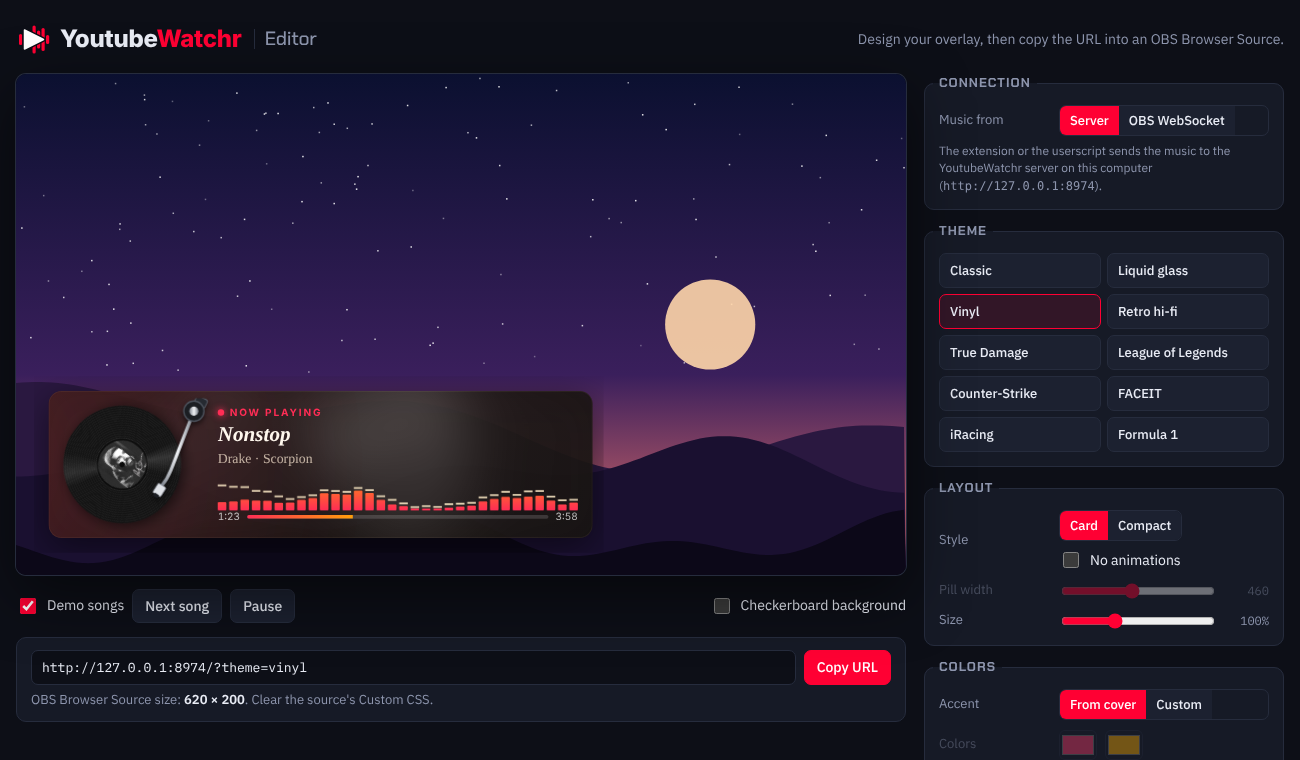
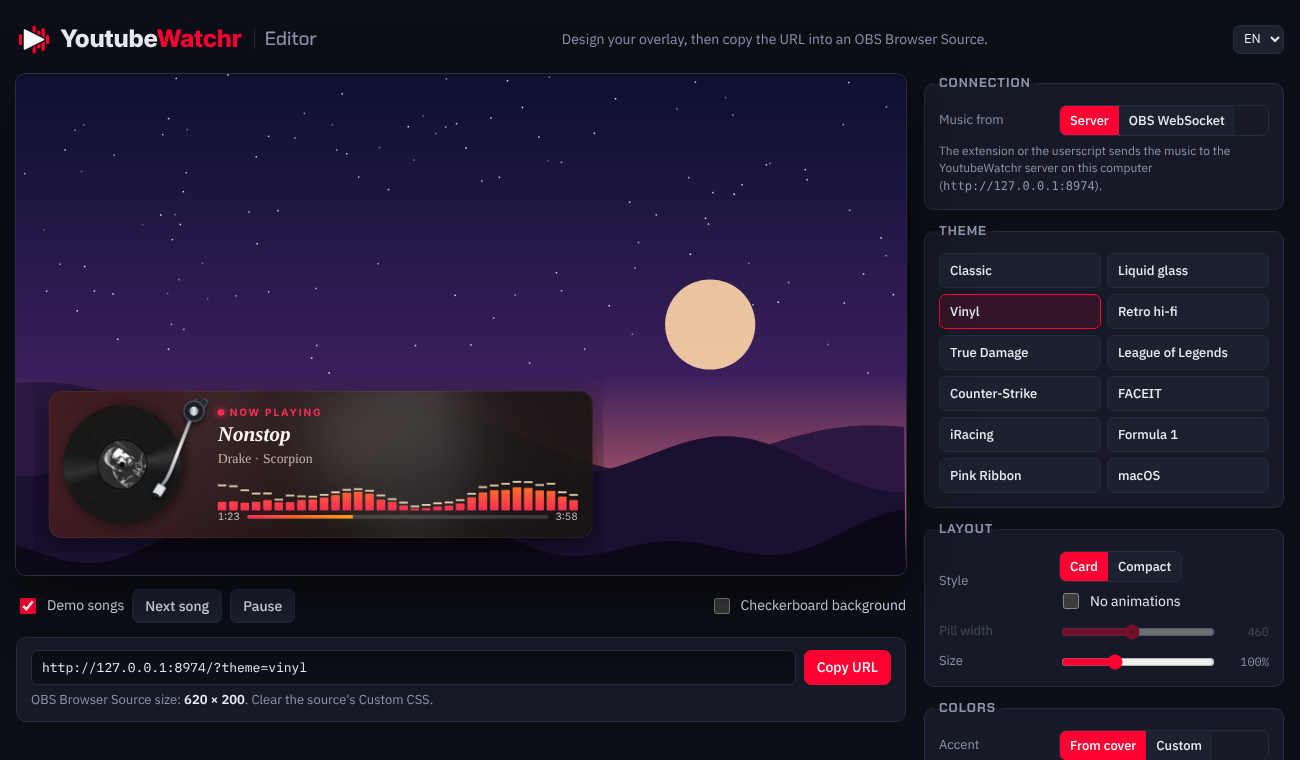
Add macOS theme
Dark macOS window with the three window buttons in the title bar and the
label as window title, system font, equalizer in the cover colors. The
compact version is a small window with a slim title bar above the line.
README, theme GIF and editor screenshot updated.

diff --git a/overlay.html b/overlay.html
@@ -547,6 +547,51 @@
   body.no-card.pinkribbon #title { color: #fff; }
   body.no-card.pinkribbon #artist, body.no-card.pinkribbon #progress, body.no-card.pinkribbon #label { color: #ffd1e2; }
 
+  /* theme=macos: a dark macOS window. Title bar with the three window buttons and
+     the label as window title, system font (SF on a Mac, Segoe UI on Windows),
+     rounded bars in the cover colors, white progress like the Music app. */
+  body.macos {
+    font-family: -apple-system, BlinkMacSystemFont, "SF Pro Text", "Segoe UI Variable Text", "Segoe UI", system-ui, sans-serif;
+    --frost: 0; --cap: rgba(255,255,255,0); --bar-round: 99; --bar-glow: 0;
+    --lights: radial-gradient(circle 6px at 20px 14px, #ff5f57 5.4px, rgba(0,0,0,.18) 5.6px, transparent 6px),
+              radial-gradient(circle 6px at 40px 14px, #febc2e 5.4px, rgba(0,0,0,.18) 5.6px, transparent 6px),
+              radial-gradient(circle 6px at 60px 14px, #28c840 5.4px, rgba(0,0,0,.18) 5.6px, transparent 6px);
+  }
+  body.macos #card {
+    padding: 40px 18px 14px 14px; border-radius: 12px; background: rgba(32,32,34,.96);
+    box-shadow: 0 18px 48px rgba(0,0,0,.5), 0 0 0 .5px rgba(0,0,0,.9), inset 0 0 0 1px rgba(255,255,255,.12);
+  }
+  body.macos #card::before {
+    content: ""; position: absolute; left: 0; right: 0; top: 0; height: 28px; pointer-events: none;
+    background: var(--lights), linear-gradient(#3a3a3c, #323234); box-shadow: inset 0 -1px 0 rgba(0,0,0,.6);
+  }
+  body.macos #glow { display: none; }
+  body.macos #info { position: static; } /* lets the label sit in the title bar */
+  body.macos #label {
+    position: absolute; left: 80px; right: 80px; top: 0; height: 28px; justify-content: center;
+    font-size: 13px; font-weight: 600; letter-spacing: 0; text-transform: none; color: rgba(255,255,255,.62);
+  }
+  body.macos #label::before { display: none; }
+  body.macos #art-wrap { width: 120px; height: 120px; border-radius: 8px; }
+  body.macos #title { font-size: 20px; font-weight: 650; letter-spacing: -.01em; }
+  body.macos #artist { font-size: 15px; font-weight: 500; }
+  body.macos #artist, body.macos #progress { color: rgba(255,255,255,.6); }
+  body.macos #bar { height: 4px; border-radius: 2px; background: rgba(255,255,255,.16); }
+  body.macos #fill { border-radius: 2px; background: rgba(255,255,255,.85); }
+  /* compact: a small window, slim title bar with smaller buttons above the line */
+  body.compact.macos #card { height: 64px; padding: 18px 20px 6px 10px; border-radius: 12px; }
+  body.compact.macos #card::before {
+    height: 16px; border-radius: 0;
+    background: radial-gradient(circle 4px at 13px 8px, #ff5f57 3.5px, transparent 4px),
+                radial-gradient(circle 4px at 26px 8px, #febc2e 3.5px, transparent 4px),
+                radial-gradient(circle 4px at 39px 8px, #28c840 3.5px, transparent 4px), linear-gradient(#3a3a3c, #323234);
+  }
+  body.compact.macos #art-wrap { width: 40px; height: 40px; border-radius: 50%; }
+  body.compact.macos:not(.no-progress) #art-wrap { background: conic-gradient(#fff calc(var(--p, 0) * 1%), rgba(255,255,255,.18) 0); }
+  /* card=0: no title bar, so the label goes back above the title */
+  body.no-card.macos:not(.compact) #card { padding-top: 16px; }
+  body.no-card.macos #label { position: static; height: auto; justify-content: flex-start; }
+
   /* compact versions keep the hard edges */
   body.compact.lol #card, body.compact.cs #card { border-radius: 0; }
   body.compact.cs #label { display: none; }
@@ -622,7 +667,7 @@
 const SAVED = typeof window.YTW_SAVED === 'string' && !location.search;
 const q = new URLSearchParams(SAVED ? window.YTW_SAVED : location.search);
 const opt = {
-  theme: q.get('theme') || 'classic', // classic | glass | vinyl | retro | truedamage | lol | cs | faceit | iracing | f1 | pinkribbon ("minimal" = classic + compact)
+  theme: q.get('theme') || 'classic', // classic | glass | vinyl | retro | truedamage | lol | cs | faceit | iracing | f1 | pinkribbon | macos ("minimal" = classic + compact)
   compact: q.get('compact') === '1' || q.get('theme') === 'minimal',
   bars: +q.get('bars') || (q.get('compact') === '1' || q.get('theme') === 'minimal' ? 7 : q.get('theme') === 'faceit' ? 12 : 32),
   accent: q.get('accent'),            // fixed hex color; otherwise taken from the cover
@@ -653,7 +698,7 @@ const opt = {
 };
 if (opt.theme === 'minimal') opt.theme = 'classic';
 if (opt.theme === 'truedamage') document.body.classList.add('vinyl');
-document.body.classList.add(['glass', 'vinyl', 'retro', 'lol', 'cs', 'faceit', 'truedamage', 'iracing', 'f1', 'pinkribbon'].includes(opt.theme) ? opt.theme : 'classic');
+document.body.classList.add(['glass', 'vinyl', 'retro', 'lol', 'cs', 'faceit', 'truedamage', 'iracing', 'f1', 'pinkribbon', 'macos'].includes(opt.theme) ? opt.theme : 'classic');
 document.body.classList.toggle('compact', opt.compact);
 const FONTS = { retro: 'VT323', lol: 'Cinzel:wght@600;700', truedamage: 'Cinzel:wght@600;700', cs: 'Rajdhani:wght@600;700', faceit: 'Geist:wght@400;600;700', iracing: 'Roboto:wght@500;700', f1: 'Titillium+Web:wght@400;700;900', pinkribbon: 'Lato:wght@400;700&family=Playfair+Display:wght@700' };
 if (FONTS[opt.theme]) {

diff --git a/editor.html b/editor.html
@@ -449,7 +449,7 @@ function applyLang() {
 const THEMES = [
   ['classic', 'Classic'], ['glass', 'Liquid glass'], ['vinyl', 'Vinyl'], ['retro', 'Retro hi-fi'],
   ['truedamage', 'True Damage'], ['lol', 'League of Legends'], ['cs', 'Counter-Strike'], ['faceit', 'FACEIT'],
-  ['iracing', 'iRacing'], ['f1', 'Formula 1'], ['pinkribbon', 'Pink Ribbon'],
+  ['iracing', 'iRacing'], ['f1', 'Formula 1'], ['pinkribbon', 'Pink Ribbon'], ['macos', 'macOS'],
 ];
 const BRAND_THEMES = ['lol', 'cs', 'faceit', 'truedamage', 'iracing', 'f1', 'pinkribbon'];
 const DEFAULTS = {

diff --git a/README.md b/README.md
@@ -8,10 +8,10 @@
 Show the song you're playing on **YouTube Music** in your OBS stream: cover, title, artist, progress and an equalizer that moves with the music.
 
 <p align="center">
-  <img src="docs/themes.gif" alt="The overlay cycling through all eleven themes: Classic, Liquid glass, Vinyl, Retro hi-fi, True Damage, League of Legends, Counter-Strike, FACEIT, iRacing, Formula 1 and Pink Ribbon, each with a live equalizer" width="720">
+  <img src="docs/themes.gif" alt="The overlay cycling through all twelve themes: Classic, Liquid glass, Vinyl, Retro hi-fi, True Damage, League of Legends, Counter-Strike, FACEIT, iRacing, Formula 1, Pink Ribbon and macOS, each with a live equalizer" width="720">
 </p>
 
-- 11 designs, from a clean card to a spinning record, plus game styles for League of Legends, Counter-Strike and FACEIT, racing styles for iRacing and Formula 1 and a pink ribbon for breast cancer awareness
+- 12 designs, from a clean card to a spinning record, plus game styles for League of Legends, Counter-Strike and FACEIT, racing styles for iRacing and Formula 1, a pink ribbon for breast cancer awareness and a macOS window
 - An editor in your browser to change colors, fonts, size and more, with a live preview
 - Host it on your own server with a login, like [FaceitWatchr](https://github.com/Fersehet/FaceitWatchr): one OBS URL that never changes, and your changes show up in OBS right away
 - Or run it only on your own computer, without an account: with just the browser extension through OBS WebSocket, or with a small local server
@@ -123,7 +123,7 @@ Every theme also has a **compact** version, a slim one-line bar where the progre
   <img src="docs/compact.png" alt="Compact versions of the Liquid glass and Vinyl themes">
 </p>
 
-Most themes take their colors from the album cover. The game, racing and `pinkribbon` themes use their own colors. `pinkribbon` is a light pink card with the pink ribbon of breast cancer awareness. In `iracing` the equalizer looks like the shift lights of a sim-racing wheel: green, yellow, red and blue LEDs.
+Most themes take their colors from the album cover. The game, racing and `pinkribbon` themes use their own colors. `pinkribbon` is a light pink card with the pink ribbon of breast cancer awareness. In `iracing` the equalizer looks like the shift lights of a sim-racing wheel: green, yellow, red and blue LEDs. `macos` is a dark macOS window with the three window buttons in the title bar.
 
 ## All options
 
@@ -133,7 +133,7 @@ The editor writes these for you. If you prefer, add them to the OBS URL yourself
 
 | Option | Example | What it does |
 |---|---|---|
-| `theme` | `?theme=vinyl` | `classic` (default), `glass`, `vinyl`, `retro`, `truedamage`, `lol`, `cs`, `faceit`, `iracing`, `f1` or `pinkribbon` |
+| `theme` | `?theme=vinyl` | `classic` (default), `glass`, `vinyl`, `retro`, `truedamage`, `lol`, `cs`, `faceit`, `iracing`, `f1`, `pinkribbon` or `macos` |
 | `compact` | `?compact=1` | Slim one-line version |
 | `width` | `?compact=1&width=380` | Width of the compact bar in pixels (default 460). Long names scroll inside |
 | `scale` | `?scale=1.5` | Make everything bigger or smaller (0.3 to 3). Multiply the OBS width and height by the same number |
